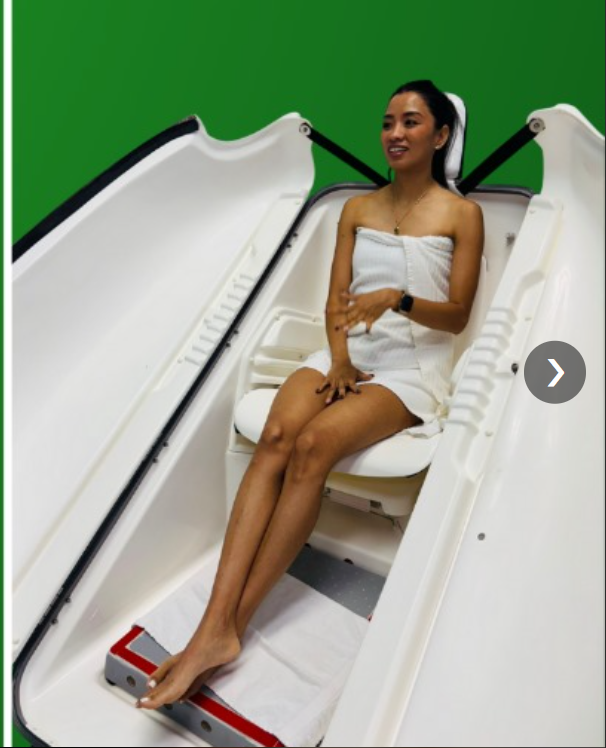
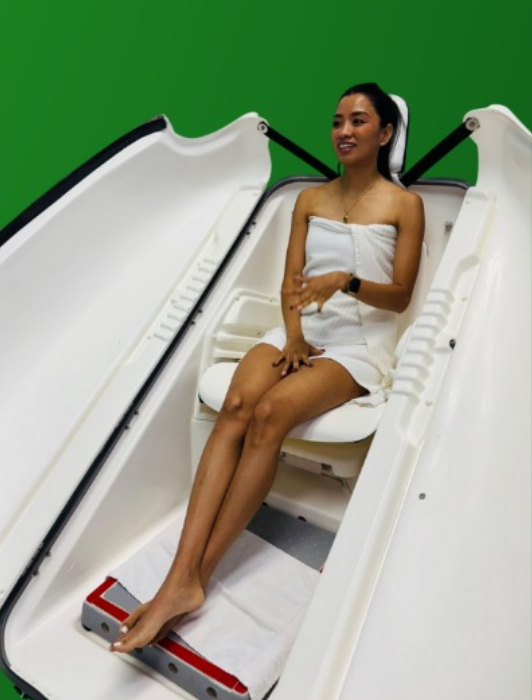
update image

diff --git a/index.html b/index.html
@@ -112,22 +112,17 @@
     </div>
     <div class="slide">
       <picture>
-        <source media="(max-width: 768px)" srcset="/images/sliderm1.png">
-        <img src="/images/slider1.jpg" alt="Slide 2" />
+        <source media="(max-width: 768px)" srcset="/images/sliderm2.png">
+        <img src="/images/slider2.png" alt="Slide 2" />
       </picture>
     </div>
     <div class="slide">
       <picture>
-        <source media="(max-width: 768px)" srcset="/images/sliderm1.png">
-        <img src="/images/slider1.jpg" alt="Slide 3" />
+        <source media="(max-width: 768px)" srcset="/images/sliderm3.png">
+        <img src="/images/slider3.png" alt="Slide 3" />
       </picture>
     </div>
-    <div class="slide">
-      <picture>
-        <source media="(max-width: 768px)" srcset="/images/mobile4.jpg">
-        <img src="/images/desktop4.jpg" alt="Slide 4" />
-      </picture>
-    </div>
+   
   </div>
   <button class="prev">&#10094;</button>
   <button class="next">&#10095;</button>

diff --git a/css/style.css b/css/style.css
@@ -6147,10 +6147,10 @@ display: flex;
   .slide {
     height: 100%;
   }
-
+/* 
   .slide img {
-    object-fit: contain; /* Show full image */
-  }
+    object-fit: contain; 
+  } */
 
   .prev,
   .next {
